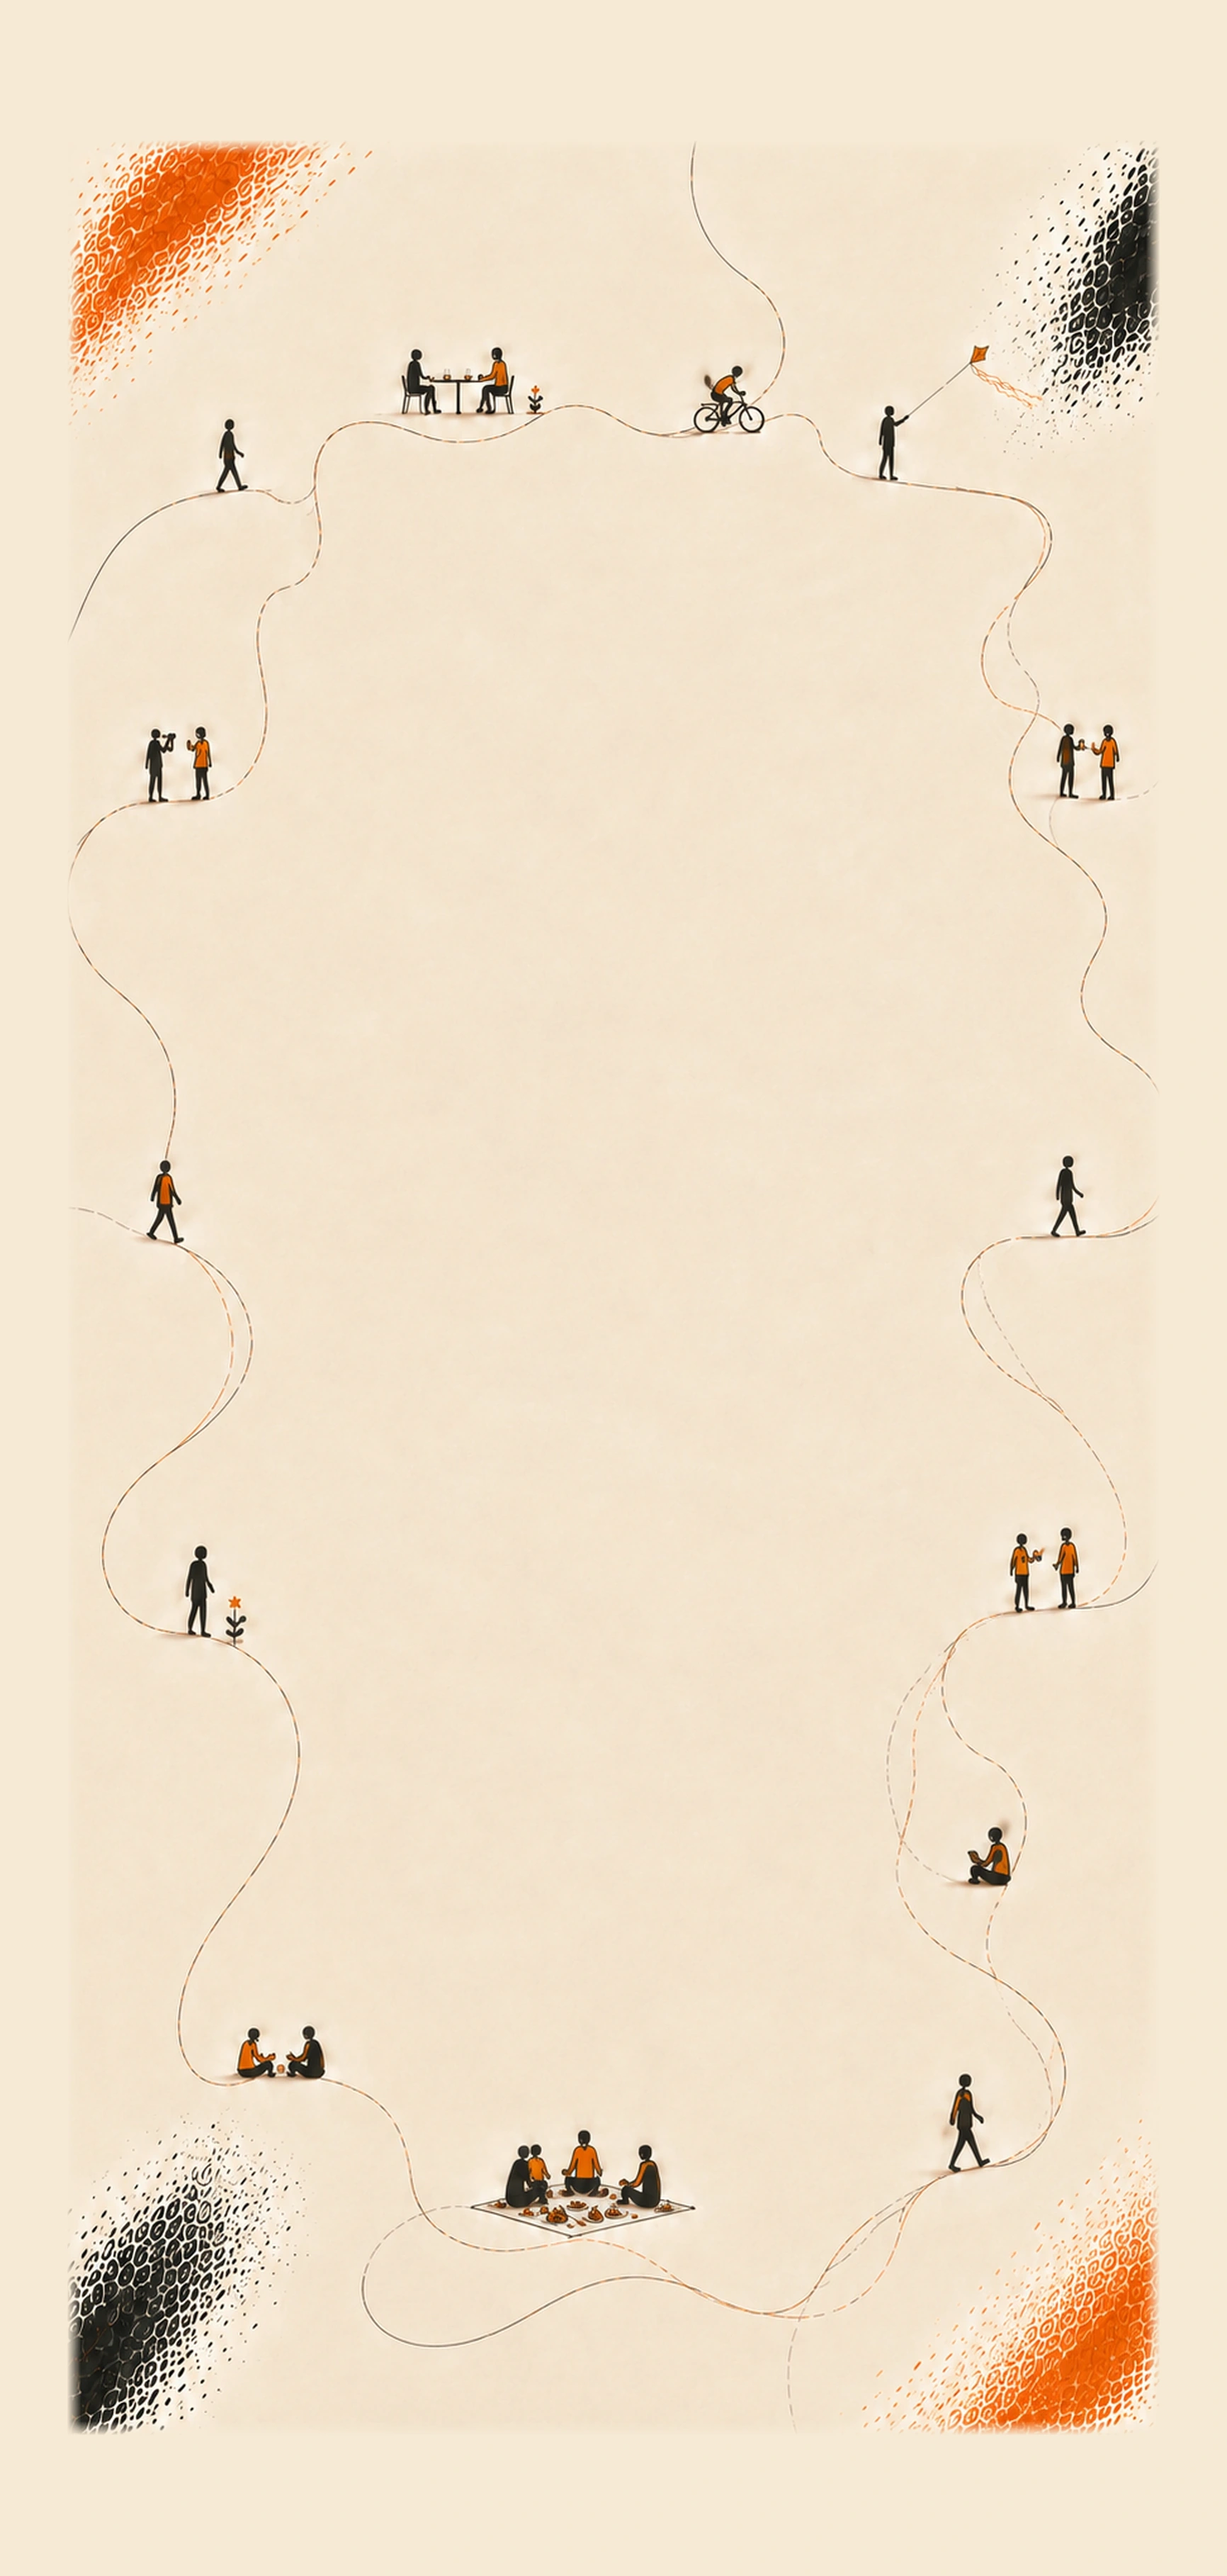
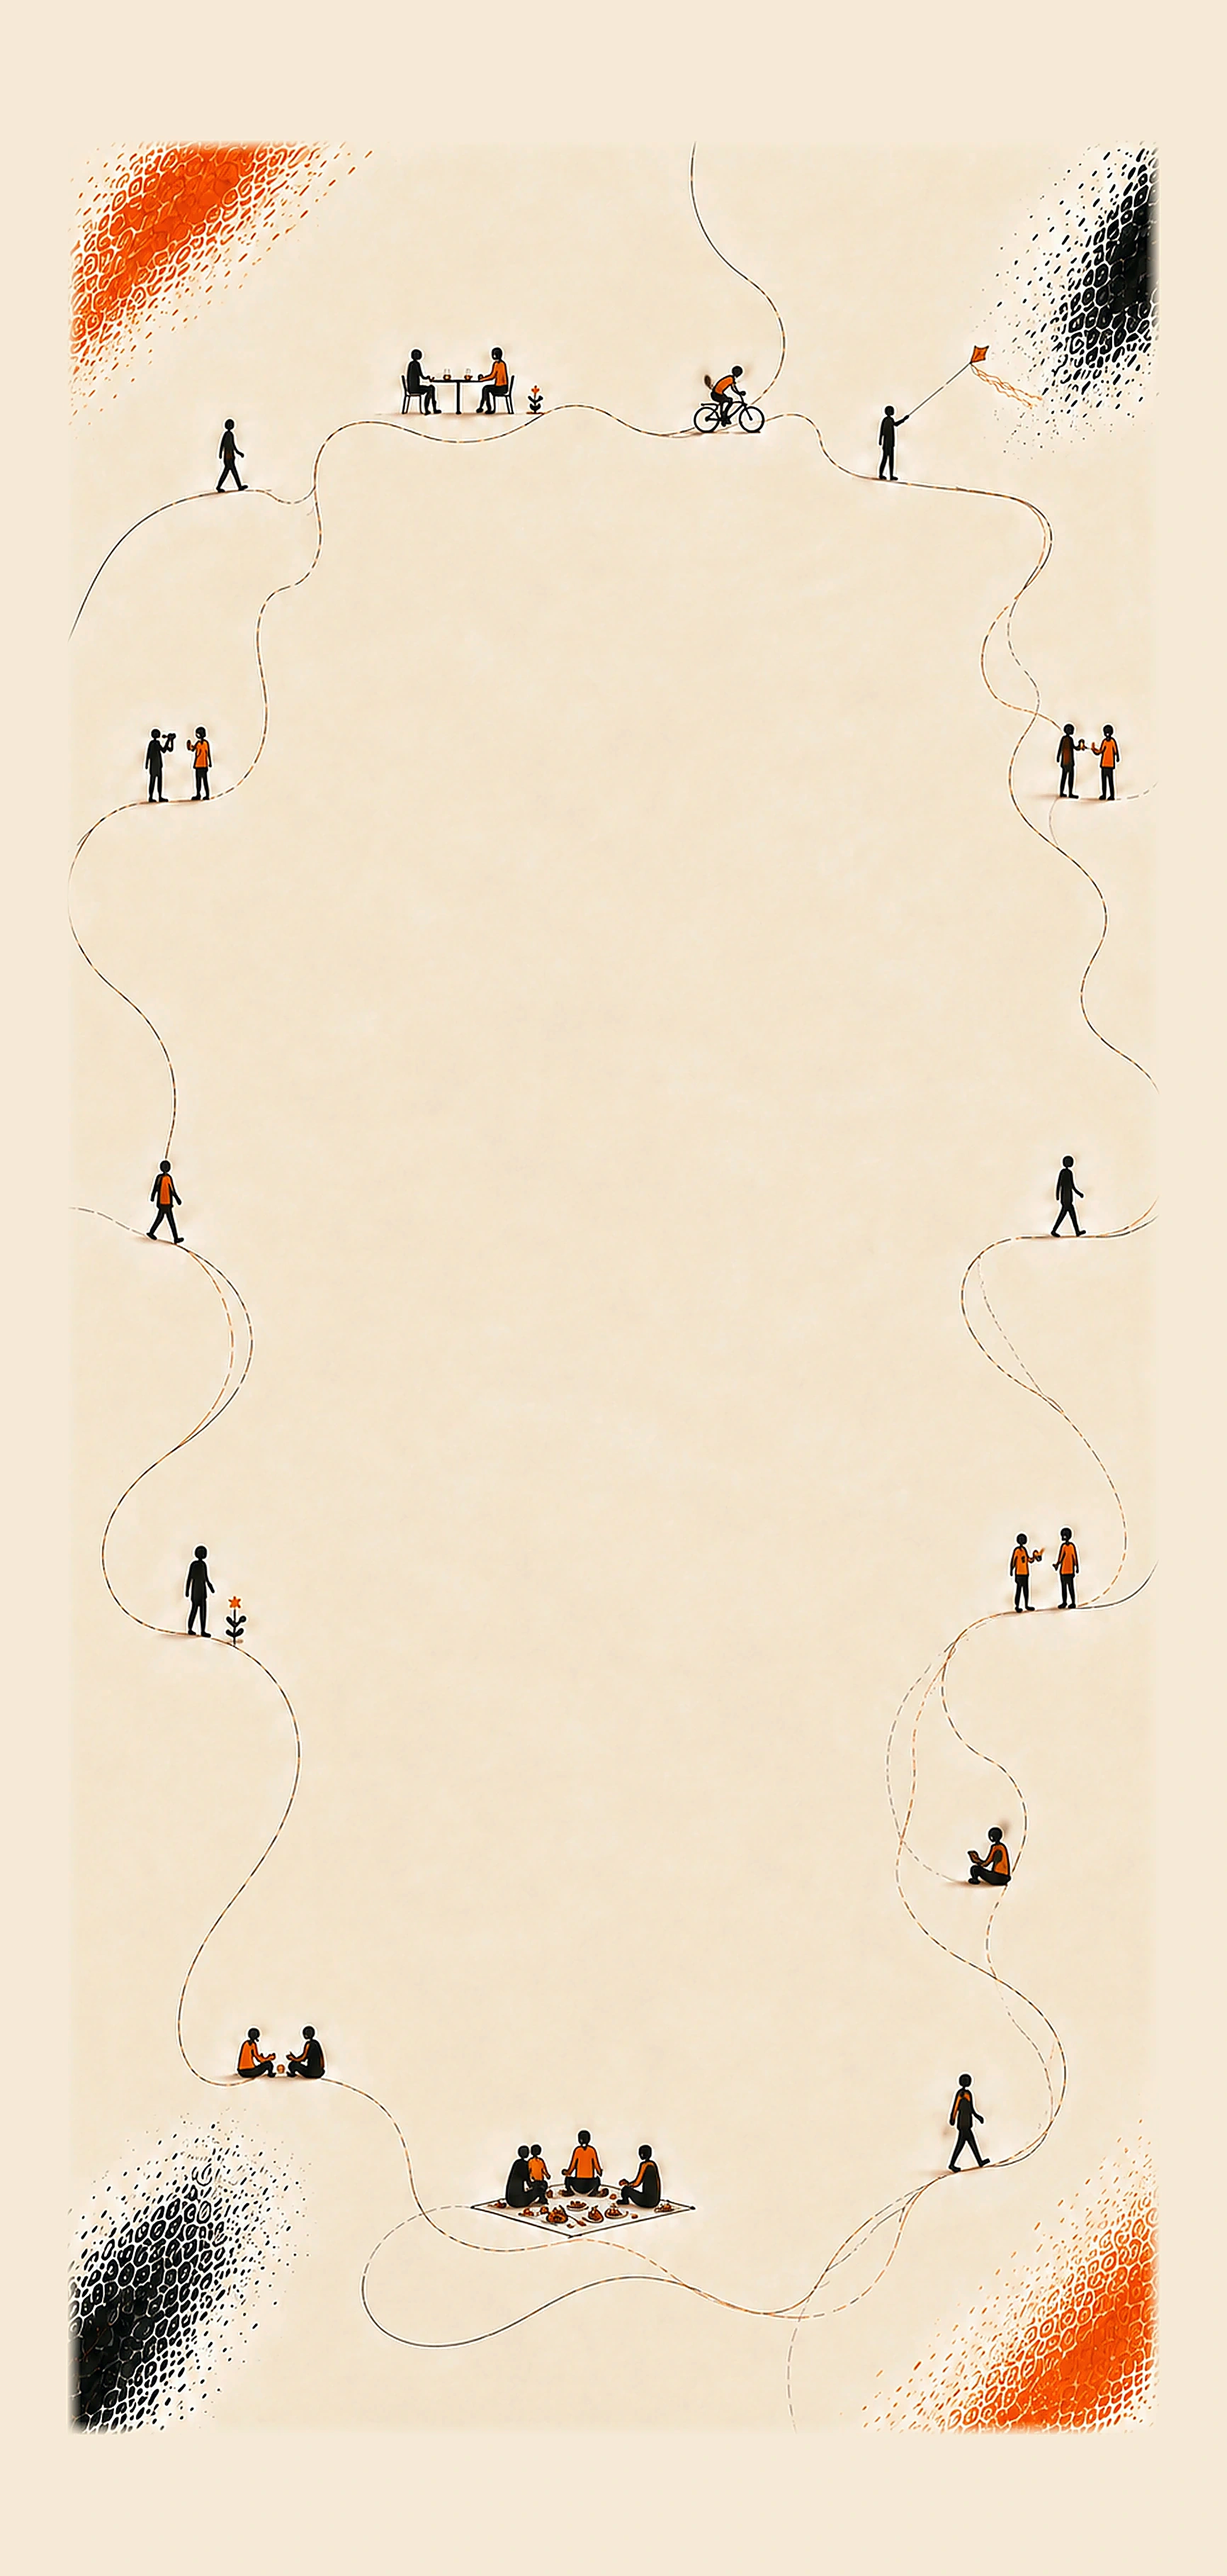
w

diff --git a/app/globals.css b/app/globals.css
@@ -8,7 +8,10 @@
 }
 
 html {
-  scroll-behavior: smooth;
+  /* Was `smooth`. On a wheel or trackpad that makes every scroll ease to
+     a stop instead of tracking the input, which reads as snapping. Anchor
+     links that need easing can opt in individually. */
+  scroll-behavior: auto;
 }
 
 /* The page surface. Cream, plus a seamless tile cut from the cream inside
@@ -555,8 +558,8 @@ body {
      rendered copy box (+8px pad) across 17 phone sizes from 360x640 to
      430x950 — no longer tiny, but still verified to never touch
      anything at any size in that range. */
-  .hero-tagline { font-size: clamp(28px, 6.9vw, 38px) !important; }
-  .hero-subline { font-size: 18px !important; margin-top: 34px !important; width: 88%; max-width: 88%; }
+  .hero-tagline { font-size: clamp(28px, 6.9vw, 38px) !important; font-weight: 600 !important; }
+  .hero-subline { font-size: 15px !important; margin-top: 30px !important; width: 56%; max-width: 56%; }
 }
 
 /* ---------------------------------------------------------------------
@@ -700,7 +703,7 @@ body {
    sans-serif at regular weight, softer than the headline's full-strength
    ink, with room to breathe between the two. */
 .hero-subline {
-  font-size: 27px;
+  font-size: 24px;
   font-weight: 450;
   line-height: 1.3;
   margin-top: 46px;
@@ -715,4 +718,15 @@ body {
 @media (max-width: 767px) {
   /* wraps below the nowrap breakpoint rather than overflowing */
   .hero-subline { white-space: normal; }
+}
+
+/* Ultrawide. At 21:9 a `cover` crop takes ~30% off the top and bottom of
+   a 1.66 artwork, which no realistic safe margin survives. Above 2:1 the
+   backdrop switches to `contain`, so the whole illustration is kept and
+   the leftover either side is page cream, which matches the artwork's own
+   paper. */
+@media (min-aspect-ratio: 2/1) and (min-width: 768px) {
+  .hero-backdrop {
+    background-size: contain;
+  }
 }

diff --git a/BACKGROUND-SYSTEM.md b/BACKGROUND-SYSTEM.md
@@ -2907,3 +2907,42 @@ holds it on one line down to the smallest desktop window; mobile keeps
 
 Still not verified in a browser: the sandbox has had no browser for several
 rounds and the reinstall is blocked.
+
+---
+
+# v117 — snapping, sizes, sharpening
+
+## The snap
+
+`html { scroll-behavior: smooth }` was set globally. On a wheel or trackpad that
+makes every scroll ease to a stop rather than tracking the input, which reads as
+snapping into place. Set to `auto`.
+
+## Type
+
+| | before | after |
+|---|---|---|
+| desktop subline | 27px | **24px** |
+| mobile subline | 18px, 88% wide | **15px, 56% wide** |
+| mobile headline | clamp(28px, 6.9vw, 38px) | same size, **weight 600** |
+
+The mobile subline was the one touching the artwork. At 88% wide it measured
+0.62-0.68% ink behind it; at 56% it is **0.000% at 390x844, 390x750, 430x932 and
+375x812**.
+
+## Sharpening
+
+Both heroes had been flattened by the cream-matching pass. Unsharp mask
+(r1.6/115%/t2), contrast x1.10, colour x1.08, then the paper colour is shifted
+back so it still matches the page exactly (drift 0.0).
+
+Contrast (std of luminance) desktop **24.7 -> 29.5**, mobile **26.9 -> 31.6**.
+
+## Ultrawide
+
+At 21:9 a `cover` crop takes ~30% off a 1.66 artwork, which no realistic margin
+survives, and 3440x1440 was measurably losing content. Above a 2:1 aspect the
+backdrop switches to `contain`, so the whole illustration is kept.
+
+Re-verified nothing is cut at 1512x982, 1440x900, 1536x864, 1680x1050,
+1920x1080, 1366x768, 2560x1440, 2560x1456 and 1280x720: **0 content pixels lost**.
